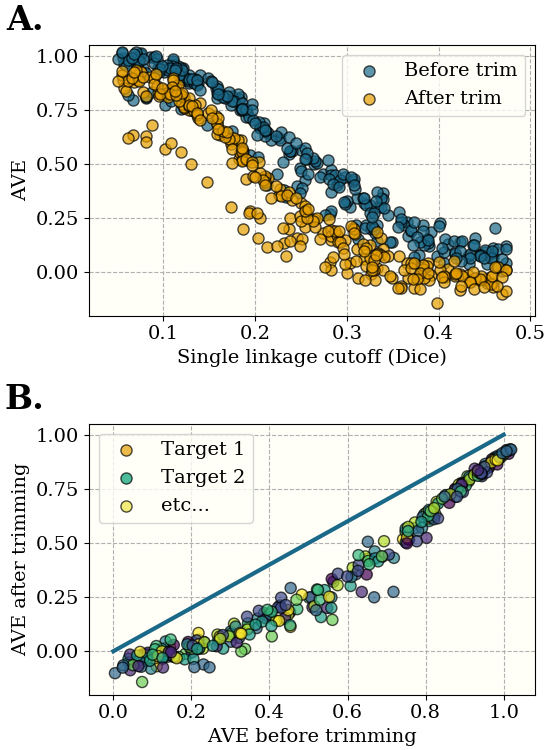
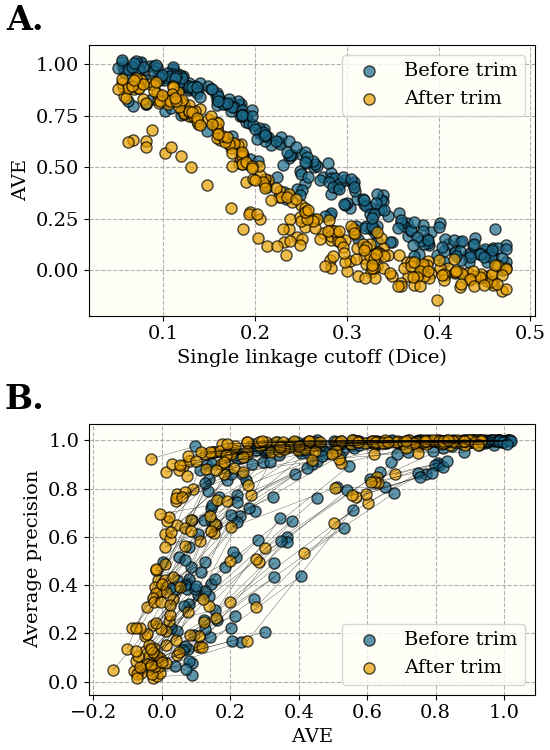
test set occupancy

diff --git a/code/test_set_occupancy.py b/code/test_set_occupancy.py
@@ -1,0 +1,104 @@
+import utils
+from os import path
+
+import numpy as np
+from scipy import stats, sparse
+
+from tqdm import tqdm
+from sklearn.cluster import AgglomerativeClustering
+import statsmodels.api as sm
+import matplotlib.pyplot as plt
+
+##Set a random seed to make it reproducible!
+np.random.seed(utils.getSeed())
+utils.set_mpl_params()
+
+#load up data:
+x, y = utils.load_feature_and_label_matrices(type='morgan')
+##select a subset of columns of 'y' to use as a test matrix:
+#this is the same each time thanks to setting the random.seed.
+col_indices = np.random.choice(243, 10, replace=False)
+x_, y_ = utils.get_subset(x, y, indices=col_indices)
+
+
+#This will be used for clustering:
+distance_matrix = utils.fast_dice(x_)
+
+
+#choose a random target:
+idx = np.random.choice(y_.shape[1])
+all_positive_indices = (y_[:,idx]==1).nonzero()[0]
+pos_test_counts = {index: 0 for index in all_positive_indices}
+
+all_negative_indices = (y_[:,idx]==0).nonzero()[0]
+neg_test_counts = {index: 0 for index in all_negative_indices}
+
+positive_fractions = []
+negative_fractions = []
+
+for idx in range(10):
+    all_positive_indices = (y_[:,idx]==1).nonzero()[0]
+    pos_test_counts = {index: 0 for index in all_positive_indices}
+
+    all_negative_indices = (y_[:,idx]==0).nonzero()[0]
+    neg_test_counts = {index: 0 for index in all_negative_indices}
+    
+    for _ in tqdm(range(30)):
+        #choose a random clustering cutoff and cluster:
+        cutoff = stats.uniform(0.05, 0.425).rvs()
+        clusterer = AgglomerativeClustering(n_clusters=None, distance_threshold=cutoff, linkage='single', affinity='precomputed')
+        clusterer.fit(distance_matrix)
+
+        clabels = np.unique(clusterer.labels_)
+        pos_labels = np.unique(clusterer.labels_[y_[:,idx]==1])
+        neg_labels = clabels[~np.isin(clabels, pos_labels)]
+        if min(len(pos_labels), len(neg_labels))<2:
+            #print('Not enough positive clusters to split')
+            continue
+
+        test_clusters, train_clusters = utils.split_clusters(pos_labels, neg_labels, 0.2, 0.2, shuffle=True)
+
+        actives_test_idx, actives_train_idx, inactives_test_idx, inactives_train_idx = utils.get_four_matrices(y_,idx,clusterer,test_clusters,train_clusters)
+        if min([actives_test_idx.shape[0], actives_train_idx.shape[0], inactives_test_idx.shape[0], inactives_train_idx.shape[0]])<20:        
+            #print('Not enough ligands to train and test')
+            continue
+
+
+        for i in actives_test_idx:
+            pos_test_counts[i] +=1
+        for i in inactives_test_idx:
+            neg_test_counts[i] +=1
+
+
+    pos_frac = np.array(list(pos_test_counts.values()))/30
+    neg_frac = np.array(list(neg_test_counts.values()))/30
+    
+    positive_fractions.append(pos_frac)
+    negative_fractions.append(neg_frac)
+
+
+fig, ax = plt.subplots()
+xr = np.linspace(0,1,200)
+count=0
+
+for a,b in zip(positive_fractions, negative_fractions):
+    dens = sm.nonparametric.KDEUnivariate(a)
+    dens.fit(bw=0.0175)
+    if count==9:
+        l1 = 'Active test fraction'
+        l2 = 'Inactive test fraction'
+    else:
+        l1 = ""
+        l2 = ""
+    ax.plot([0]+list(xr), [0]+list(dens.evaluate(xr)), c='C0', lw=2, label=l1)
+    dens = sm.nonparametric.KDEUnivariate(b)
+    dens.fit(bw=0.0175)
+    ax.plot([0]+list(xr), [0]+list(dens.evaluate(xr)), c='C1', lw=2, label=l2)
+    count+=1
+    
+ax.grid()
+ax.set_xlabel('% in test set')
+ax.set_ylabel('Density')
+ax.axvline(0.2, linestyle='--', c='k', label='Goal value')
+ax.legend()
+fig.savefig('./processed_data/supplementary/test_set_occupancy.png')

diff --git a/code/replicate_AVE_figures.py b/code/replicate_AVE_figures.py
@@ -62,7 +62,6 @@ plt.close(fig)
 fig, ax = plt.subplots(2,1)
 fig.set_figheight(7.5)
 fig.set_figwidth(5.5)
-plt.setp(ax, ylim=(-0.2,1.05))
 
 ax[0].scatter(cutoffs, aves_before_trim, alpha=utils.ALPHA, label='Before trim')
 ax[0].scatter(cutoffs, aves_after_trim, alpha=utils.ALPHA, label='After trim')
@@ -72,17 +71,16 @@ ax[0].grid()
 ax[0].legend()
 utils.plot_fig_label(ax[0], 'A.')
 
-ax[1].scatter(aves_before_trim, aves_after_trim, c=targets, alpha=utils.ALPHA)
-ax[1].plot([0,1],[0,1])
-ax[1].scatter([0],[1.5], alpha=utils.ALPHA, c='C1', label='Target 1')
-ax[1].scatter([0],[1.5], alpha=utils.ALPHA, c='C2', label='Target 2')
-ax[1].scatter([0],[1.5], alpha=utils.ALPHA, c='C3', label='etc...')
-ax[1].set_xlabel('AVE before trimming')
-ax[1].set_ylabel('AVE after trimming')
-ax[1].grid()
-ax[1].legend()
-utils.plot_fig_label(ax[1], 'B.')
 
+for a,b,c,d in zip(aves_before_trim, aves_after_trim, ap_before_trim, ap_after_trim):
+    ax[1].plot([a,b], [c,d], lw=0.2, c='k')
+ax[1].scatter(aves_before_trim, ap_before_trim, alpha=utils.ALPHA, label='Before trim')
+ax[1].scatter(aves_after_trim, ap_after_trim, alpha=utils.ALPHA, label='After trim')
+ax[1].legend()
+ax[1].set_xlabel('AVE')
+ax[1].set_ylabel('Average precision')
+ax[1].grid()
+utils.plot_fig_label(ax[1], 'B.')
 
 fig.savefig('./processed_data/replicate_AVE/trim.png')
 plt.close(fig)
@@ -90,17 +88,18 @@ plt.close(fig)
 
 fig, ax = plt.subplots()
 #This becomes a supplementary:
-for a,b,c,d in zip(aves_before_trim, aves_after_trim, ap_before_trim, ap_after_trim):
-    ax.plot([a,b], [c,d], lw=0.2, c='k')
-
-ax.scatter(aves_before_trim, ap_before_trim, alpha=utils.ALPHA, label='Before trim')
-ax.scatter(aves_after_trim, ap_after_trim, alpha=utils.ALPHA, label='After trim')
-ax.legend()
-ax.set_xlabel('AVE')
-ax.set_ylabel('Average precision')
+ax.scatter(aves_before_trim, aves_after_trim, c=targets, alpha=utils.ALPHA)
+ax.plot([0,1],[0,1])
+ax.scatter([0],[1.5], alpha=utils.ALPHA, c='C1', label='Target 1')
+ax.scatter([0],[1.5], alpha=utils.ALPHA, c='C2', label='Target 2')
+ax.scatter([0],[1.5], alpha=utils.ALPHA, c='C3', label='etc...')
+ax.set_xlabel('AVE before trimming')
+ax.set_ylabel('AVE after trimming')
 ax.grid()
+ax.set_ylim(-0.15, 1.05)
+ax.legend()
 
-fig.savefig('./processed_data/supplementary/replicate_AVE_vs_AP.png')
+fig.savefig('./processed_data/supplementary/trim_size.png')
 plt.close(fig)
 
 
